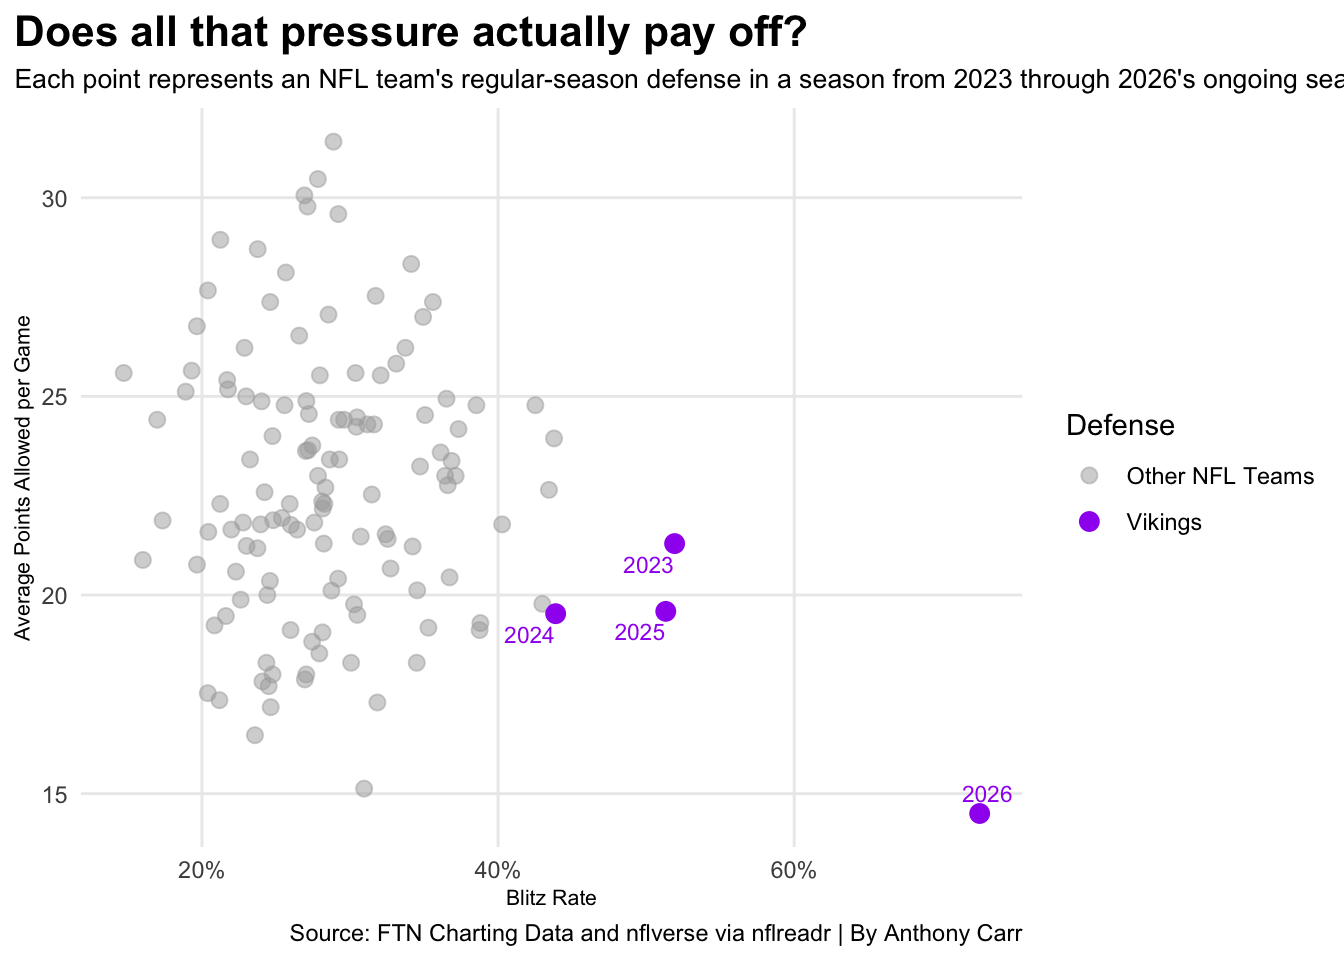
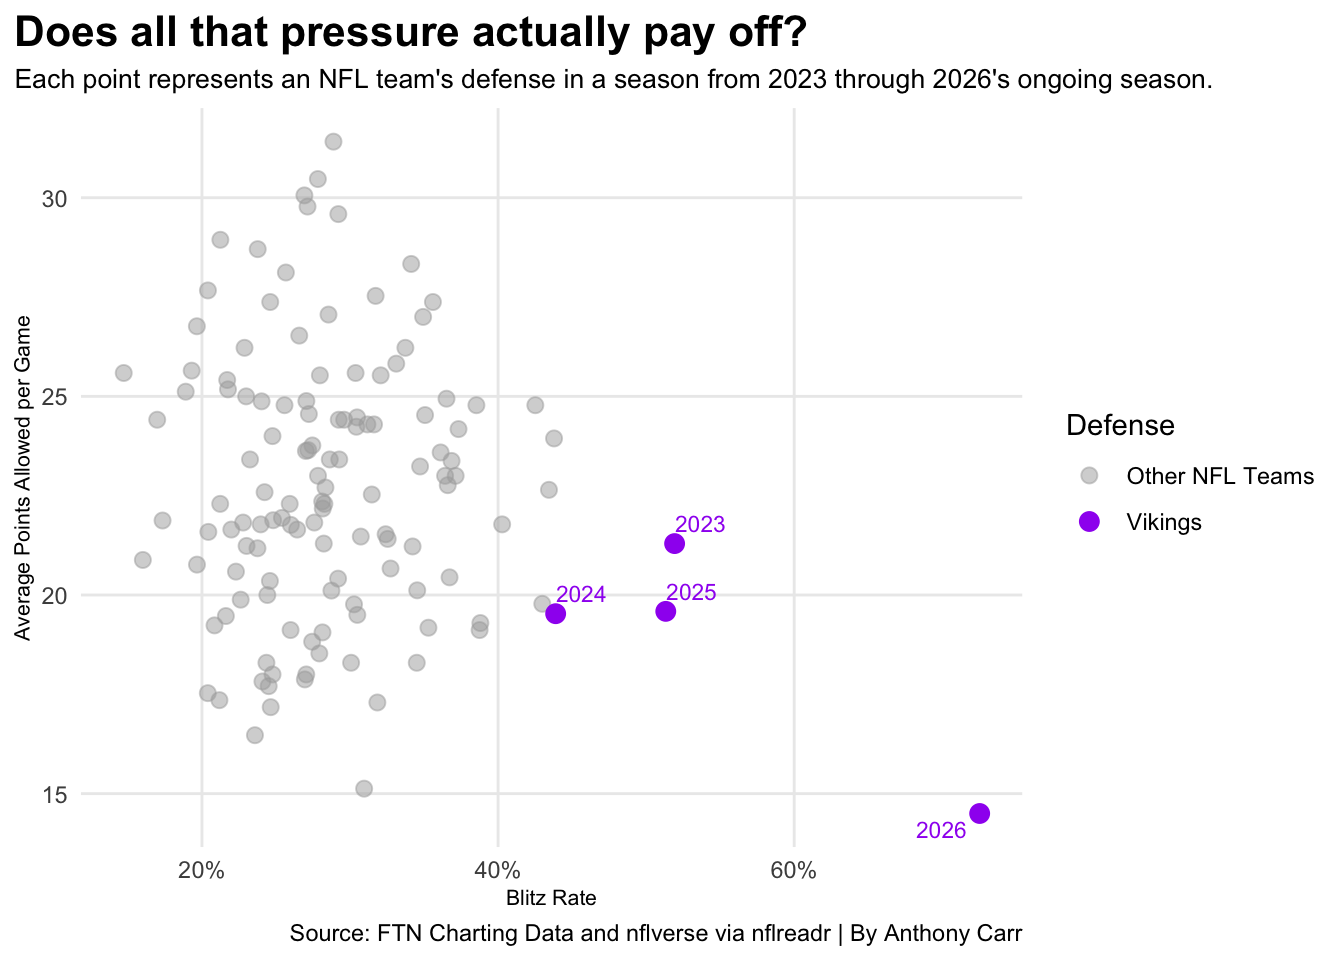
fn1

diff --git a/posts/minnesota-vikings-football-brianflores-defense-nfl/index.html b/posts/minnesota-vikings-football-brianflores-defense-nfl/index.html
@@ -665,7 +665,7 @@ pre > code.sourceCode > span > a:first-child::before { text-decoration: underlin
 <span id="cb3-80"><a href="#cb3-80" aria-hidden="true" tabindex="-1"></a>    <span class="at">x =</span> <span class="st">"Blitz Rate"</span>,</span>
 <span id="cb3-81"><a href="#cb3-81" aria-hidden="true" tabindex="-1"></a>    <span class="at">y =</span> <span class="st">"Average Points Allowed per Game"</span>,</span>
 <span id="cb3-82"><a href="#cb3-82" aria-hidden="true" tabindex="-1"></a>    <span class="at">title =</span> <span class="st">"Does all that pressure actually pay off?"</span>,</span>
-<span id="cb3-83"><a href="#cb3-83" aria-hidden="true" tabindex="-1"></a>    <span class="at">subtitle =</span> <span class="st">"Each point represents an NFL team's regular-season defense in a season from 2023 through 2026's ongoing season."</span>,</span>
+<span id="cb3-83"><a href="#cb3-83" aria-hidden="true" tabindex="-1"></a>    <span class="at">subtitle =</span> <span class="st">"Each point represents an NFL team's defense in a season from 2023 through 2026's ongoing season."</span>,</span>
 <span id="cb3-84"><a href="#cb3-84" aria-hidden="true" tabindex="-1"></a>    <span class="at">caption =</span> <span class="st">"Source: FTN Charting Data and nflverse via nflreadr | By Anthony Carr"</span></span>
 <span id="cb3-85"><a href="#cb3-85" aria-hidden="true" tabindex="-1"></a>  ) <span class="sc">+</span></span>
 <span id="cb3-86"><a href="#cb3-86" aria-hidden="true" tabindex="-1"></a>  <span class="fu">theme_minimal</span>() <span class="sc">+</span></span>

diff --git a/index.html b/index.html
@@ -379,7 +379,7 @@ window.Quarto = {
 
 <div class="quarto-listing quarto-listing-container-default" id="listing-listing">
 <div class="list quarto-listing-default">
-<div class="quarto-post image-right" data-index="0" data-categories="TWlubmVzb3RhJTIwVmlraW5ncyUyQ0JyaWFuJTIwRmxvcmVz" data-listing-date-sort="1794549600000" data-listing-file-modified-sort="1794600960807" data-listing-date-modified-sort="NaN" data-listing-reading-time-sort="11" data-listing-word-count-sort="2170">
+<div class="quarto-post image-right" data-index="0" data-categories="TWlubmVzb3RhJTIwVmlraW5ncyUyQ0JyaWFuJTIwRmxvcmVz" data-listing-date-sort="1794549600000" data-listing-file-modified-sort="1794601376856" data-listing-date-modified-sort="NaN" data-listing-reading-time-sort="11" data-listing-word-count-sort="2169">
 <div class="thumbnail"><a href="./posts/minnesota-vikings-football-brianflores-defense-nfl/index.html" class="no-external-icon">
 
 <img loading="lazy" src="./posts/minnesota-vikings-football-brianflores-defense-nfl/image.png" class="thumbnail-image">
